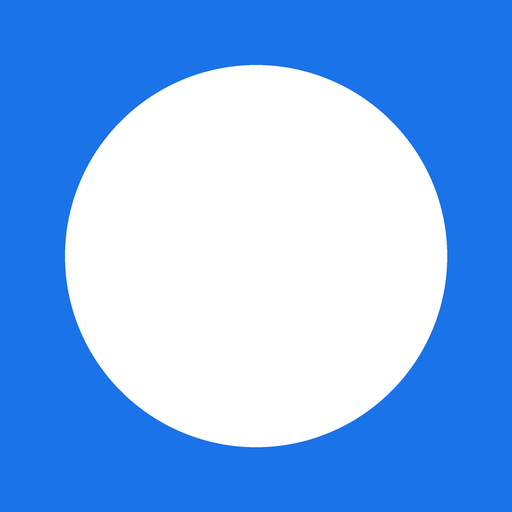
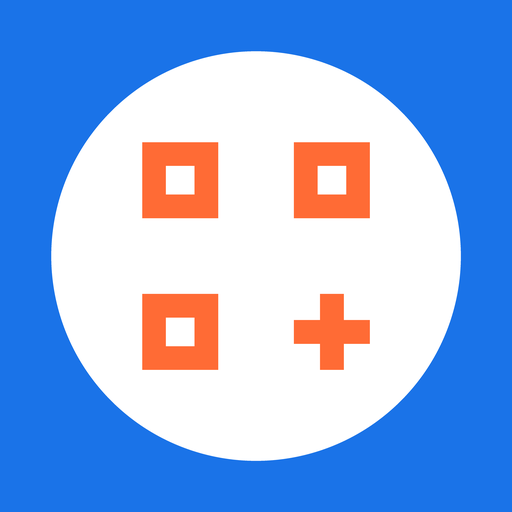
docs: 补充应用图标与 GitHub 徽章，F-Droid 描述改为 MIT

diff --git a/README.md b/README.md
@@ -1,4 +1,10 @@
+<p align="center">
+  <img src="fastlane/metadata/android/en-US/images/icon.png" width="96" alt="ScanPaste icon">
+</p>
+
 # ScanPaste · 扫码笔记
+
+[![GitHub](https://img.shields.io/badge/GitHub-iFeel--is--a--mouse%2FScanPaste-181717?logo=github)](https://github.com/iFeel-is-a-mouse/ScanPaste)
 
 ScanPaste is a small offline QR code notebook for Android. Scan a code, and the
 decoded text is appended to the note you are editing. No account, no sync, no
